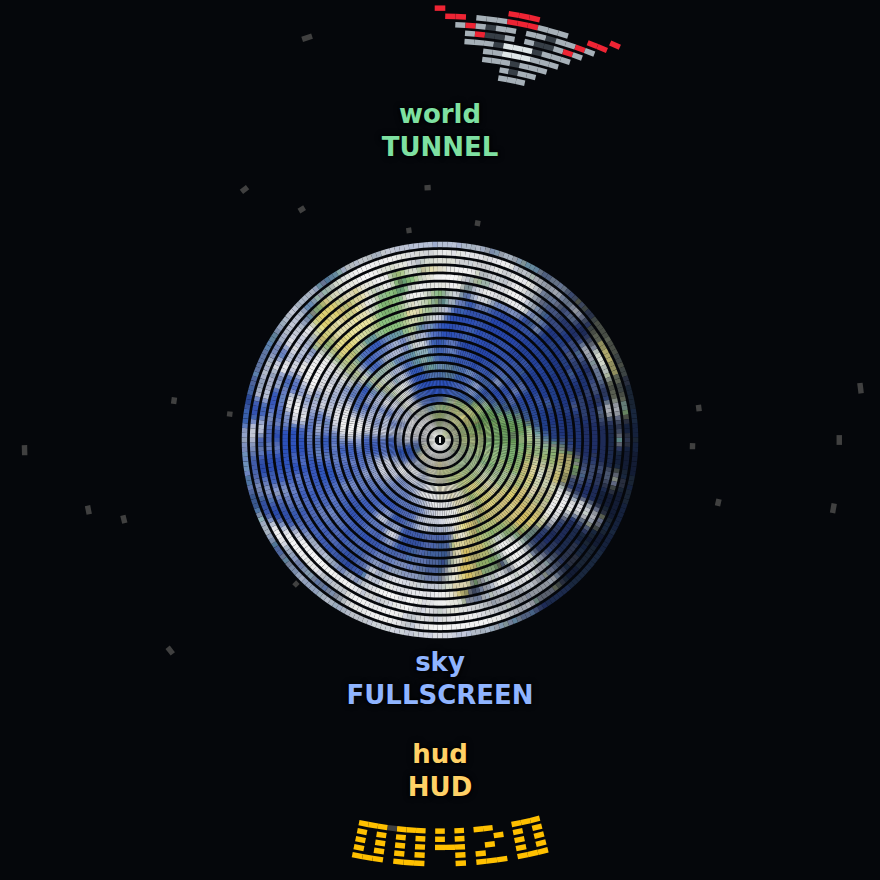
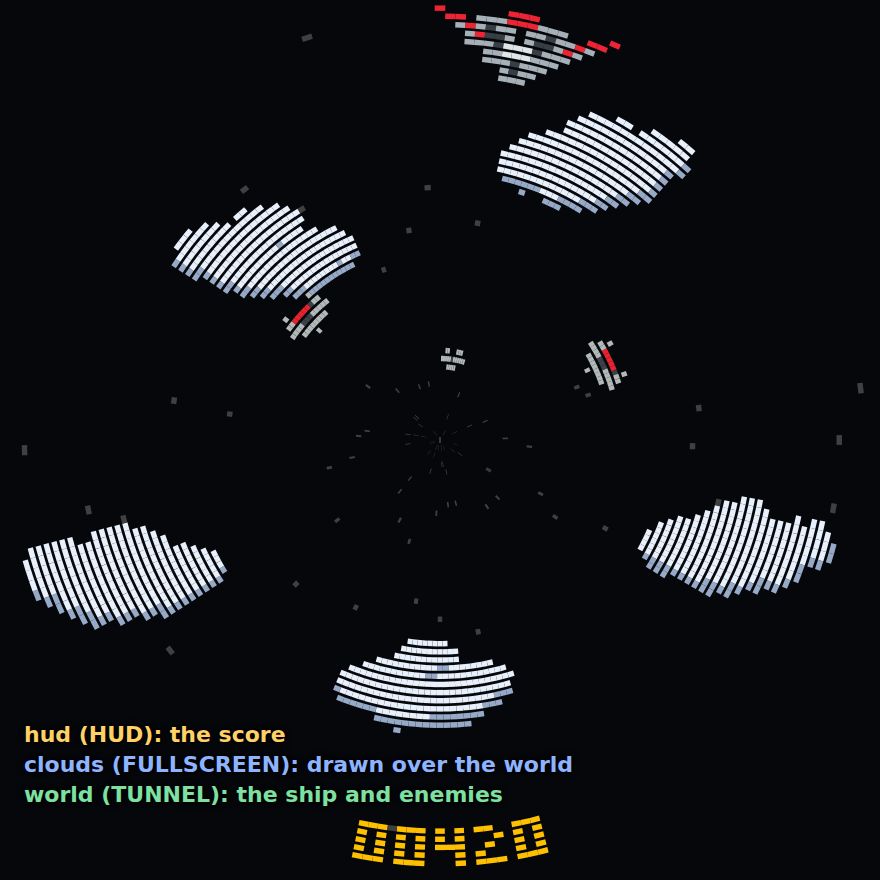
Rework the docs image examples: dark backgrounds, clouds over the world
- Terrain examples fill only an island of cells and leave the rest empty,
  since dark or black backgrounds work better on the real display.
- The layers example now stacks world (bottom), clouds (a FULLSCREEN layer,
  drawn over the world) and hud (top), with generated clouds art.
- New flips example shows the same label upside-down and upright.
- The title banner moves to the bottom of the disc so it reads upright.
- Annotations move to corner legends so text no longer overlaps drawings.

Claude-Session: https://claude.ai/code/session_01Am6eVYV27DcbeE9tF3fxdW

Changed region(s): [[0.0307, 0.2148, 0.9511, 0.9205], [0.4295, 0.1227, 0.7977, 0.2455], [0.0307, 0.583, 0.2761, 0.7364]]

diff --git a/tools/vs2_doc_images/make_clouds.py b/tools/vs2_doc_images/make_clouds.py
@@ -1,0 +1,49 @@
+"""Draws art/clouds.png: a mostly transparent FULLSCREEN layer with a few
+pixel-art cloud banks, so the layers example can put "clouds" over the world.
+
+    python3 make_clouds.py
+
+Needs Pillow. The picture is square; the ROM builder maps it onto the disc, so
+distance from the middle of the picture becomes distance from the centre of the
+display and angle around it becomes X.
+"""
+from math import cos, pi, sin
+
+from PIL import Image, ImageDraw
+
+SIZE = 256
+LIGHT = (232, 240, 252, 255)
+SHADE = (150, 170, 200, 255)
+
+# (angle in degrees, distance from the middle as a fraction, puff radii in px)
+BANKS = [
+    (20, 0.72, (14, 10, 12)),
+    (95, 0.55, (12, 9, 10)),
+    (160, 0.78, (16, 11, 13)),
+    (230, 0.60, (13, 10, 11)),
+    (300, 0.74, (15, 11, 12)),
+]
+
+
+def bank(draw, cx, cy, radii):
+    offsets = [(-14, 3), (0, -4), (15, 3), (-4, 8), (8, 9)]
+    for (dx, dy), r in zip(offsets, radii * 2):
+        box = (cx + dx - r, cy + dy - r // 2, cx + dx + r, cy + dy + r // 2)
+        draw.ellipse(box, fill=SHADE)
+    for (dx, dy), r in zip(offsets, radii * 2):
+        box = (cx + dx - r, cy + dy - r // 2 - 3, cx + dx + r, cy + dy + r // 2 - 3)
+        draw.ellipse(box, fill=LIGHT)
+
+
+def main():
+    image = Image.new("RGBA", (SIZE, SIZE), (0, 0, 0, 0))
+    draw = ImageDraw.Draw(image)
+    middle = SIZE / 2
+    for angle, dist, radii in BANKS:
+        a = angle * pi / 180
+        bank(draw, int(middle + dist * middle * cos(a)),
+             int(middle + dist * middle * sin(a)), radii)
+    image.save(__file__.replace("make_clouds.py", "art/clouds.png"))
+
+
+main()

diff --git a/tools/vs2_doc_images/examples/tilemap.py b/tools/vs2_doc_images/examples/tilemap.py
@@ -7,17 +7,20 @@ class Tilemap(vs2.Scene):
     def build(self):
         world = self.layer("world", projection=vs2.TUNNEL)
         self.ground = world.tilemap("terrain.png", columns=16, rows=16,
-                                    view_width=256, view_height=128)
-        self.ground.fill(GRASS)
-        for row in range(16):
-            for col in range(16):
-                if (col + row) % 7 == 0:
-                    self.ground[col, row] = WATER
-                elif (col * row) % 11 == 0:
-                    self.ground[col, row] = SAND
-                elif (col + 2 * row) % 13 == 0:
-                    self.ground[col, row] = ROCK
-        self.ship = world.sprite("ship.png", x=128, y=30)
+                                    view_width=256, view_height=128, y=16)
+        # Fill only the cells that have something in them. Every other cell
+        # stays EMPTY_TILE, so the rest of the disc is left dark.
+        for row in range(1, 7):
+            for col in range(3, 10):
+                tile = GRASS
+                if col == 6:
+                    tile = WATER
+                elif row in (1, 6):
+                    tile = SAND
+                elif (col + row) % 5 == 0:
+                    tile = ROCK
+                self.ground[col, row] = tile
+        self.ship = world.sprite("ship.png", x=128, y=0)
 
 
 def main():

diff --git a/tools/vs2_doc_images/examples/labels.py b/tools/vs2_doc_images/examples/labels.py
@@ -1,5 +1,7 @@
 import vs2
 
+GRASS, WATER, ROCK, SAND = range(4)
+
 
 class Labels(vs2.Scene):
     def build(self):
@@ -7,8 +9,10 @@ class Labels(vs2.Scene):
         hud = self.layer("hud", projection=vs2.HUD)
         self.ground = world.tilemap("terrain.png", columns=16, rows=16,
                                     view_width=256, view_height=128, y=16)
-        self.ground.fill(0)
-        self.ship = world.sprite("ship.png", x=128, y=24)
+        for row in range(1, 7):
+            for col in range(3, 10):
+                self.ground[col, row] = SAND if row in (1, 6) else GRASS
+        self.ship = world.sprite("ship.png", x=128, y=0)
 
         # Upright at the bottom of the disc...
         self.score = hud.label("numerals.png", columns=5, glyphs="0123456789",
@@ -17,7 +21,7 @@ class Labels(vs2.Scene):
 
         # ...and flipped both ways at the top.
         self.top = hud.label("numerals.png", columns=5, glyphs="0123456789",
-                             x=118, y=1, flip_x=True, flip_y=True)
+                             x=118, y=14, flip_x=True, flip_y=True)
         self.top.set_number(420, width=5, pad="0")
 
 

diff --git a/tools/vs2_doc_images/examples/flips.py b/tools/vs2_doc_images/examples/flips.py
@@ -1,0 +1,21 @@
+import vs2
+
+
+class Flips(vs2.Scene):
+    def build(self):
+        hud = self.layer("hud", projection=vs2.HUD)
+        glyphs = "0123456789"
+
+        # Bottom of the disc: reads upright with no flips.
+        bottom = hud.label("numerals.png", columns=5, glyphs=glyphs, x=246, y=1)
+        # Top of the disc, no flips: upside down.
+        top_plain = hud.label("numerals.png", columns=5, glyphs=glyphs, x=118, y=1)
+        # Top of the disc, flipped both ways: reads upright.
+        top_flipped = hud.label("numerals.png", columns=5, glyphs=glyphs,
+                                x=118, y=14, flip_x=True, flip_y=True)
+        for label in (bottom, top_plain, top_flipped):
+            label.set_number(420, width=5, pad="0")
+
+
+def main():
+    return Flips()

diff --git a/tools/vs2_doc_images/examples/layers.py b/tools/vs2_doc_images/examples/layers.py
@@ -3,12 +3,15 @@ import vs2
 
 class Layers(vs2.Scene):
     def build(self):
-        self.sky = self.layer("sky", projection=vs2.FULLSCREEN)
         self.world = self.layer("world", projection=vs2.TUNNEL)
+        self.clouds = self.layer("clouds", projection=vs2.FULLSCREEN)
         self.hud = self.layer("hud", projection=vs2.HUD)
 
-        self.sky.sprite("tierra.png", x=0, y=0)
         self.world.sprite("ship.png", x=128, y=0)
+        self.world.sprite("enemy.png", x=88, y=50)
+        self.world.sprite("enemy.png", x=168, y=50)
+        self.world.sprite("enemy.png", x=128, y=90)
+        self.clouds.sprite("clouds.png", x=0, y=0)
         self.hud.label("numerals.png", columns=5, glyphs="0123456789",
                        x=246, y=1, text="00420")
 

diff --git a/tools/vs2_doc_images/examples/title.py b/tools/vs2_doc_images/examples/title.py
@@ -5,7 +5,7 @@ from vs2.controls import *
 class Title(vs2.Scene):
     def build(self):
         hud = self.layer("hud", projection=vs2.HUD)
-        self.banner = hud.sprite("messages.png", x=96, y=12)
+        self.banner = hud.sprite("messages.png", x=224, y=8)
 
     def update(self):
         if joy1.just_pressed(A):

diff --git a/tools/vs2_doc_images/README.md b/tools/vs2_doc_images/README.md
@@ -28,7 +28,8 @@ emulator URL and the output directory.
   text labels drawn over them (`labels` in `capture.mjs`).
 - `diagrams/*.svg` are rendered to PNG with the same browser. `{{art:...}}`
   in an SVG is replaced with a PNG from `games/` as a data URI.
-- The art comes from the games under `games/alecu/` (`ART` in `capture.mjs`).
+- The art comes from the games under `games/alecu/` (`ART` in `capture.mjs`),
+  except `art/clouds.png`, which `make_clouds.py` draws for the layers example.
 
 The examples pass `glyphs=` to `label()` because the browser ROM builder does
 not read `glyphs:` from `__images__.yaml`.
